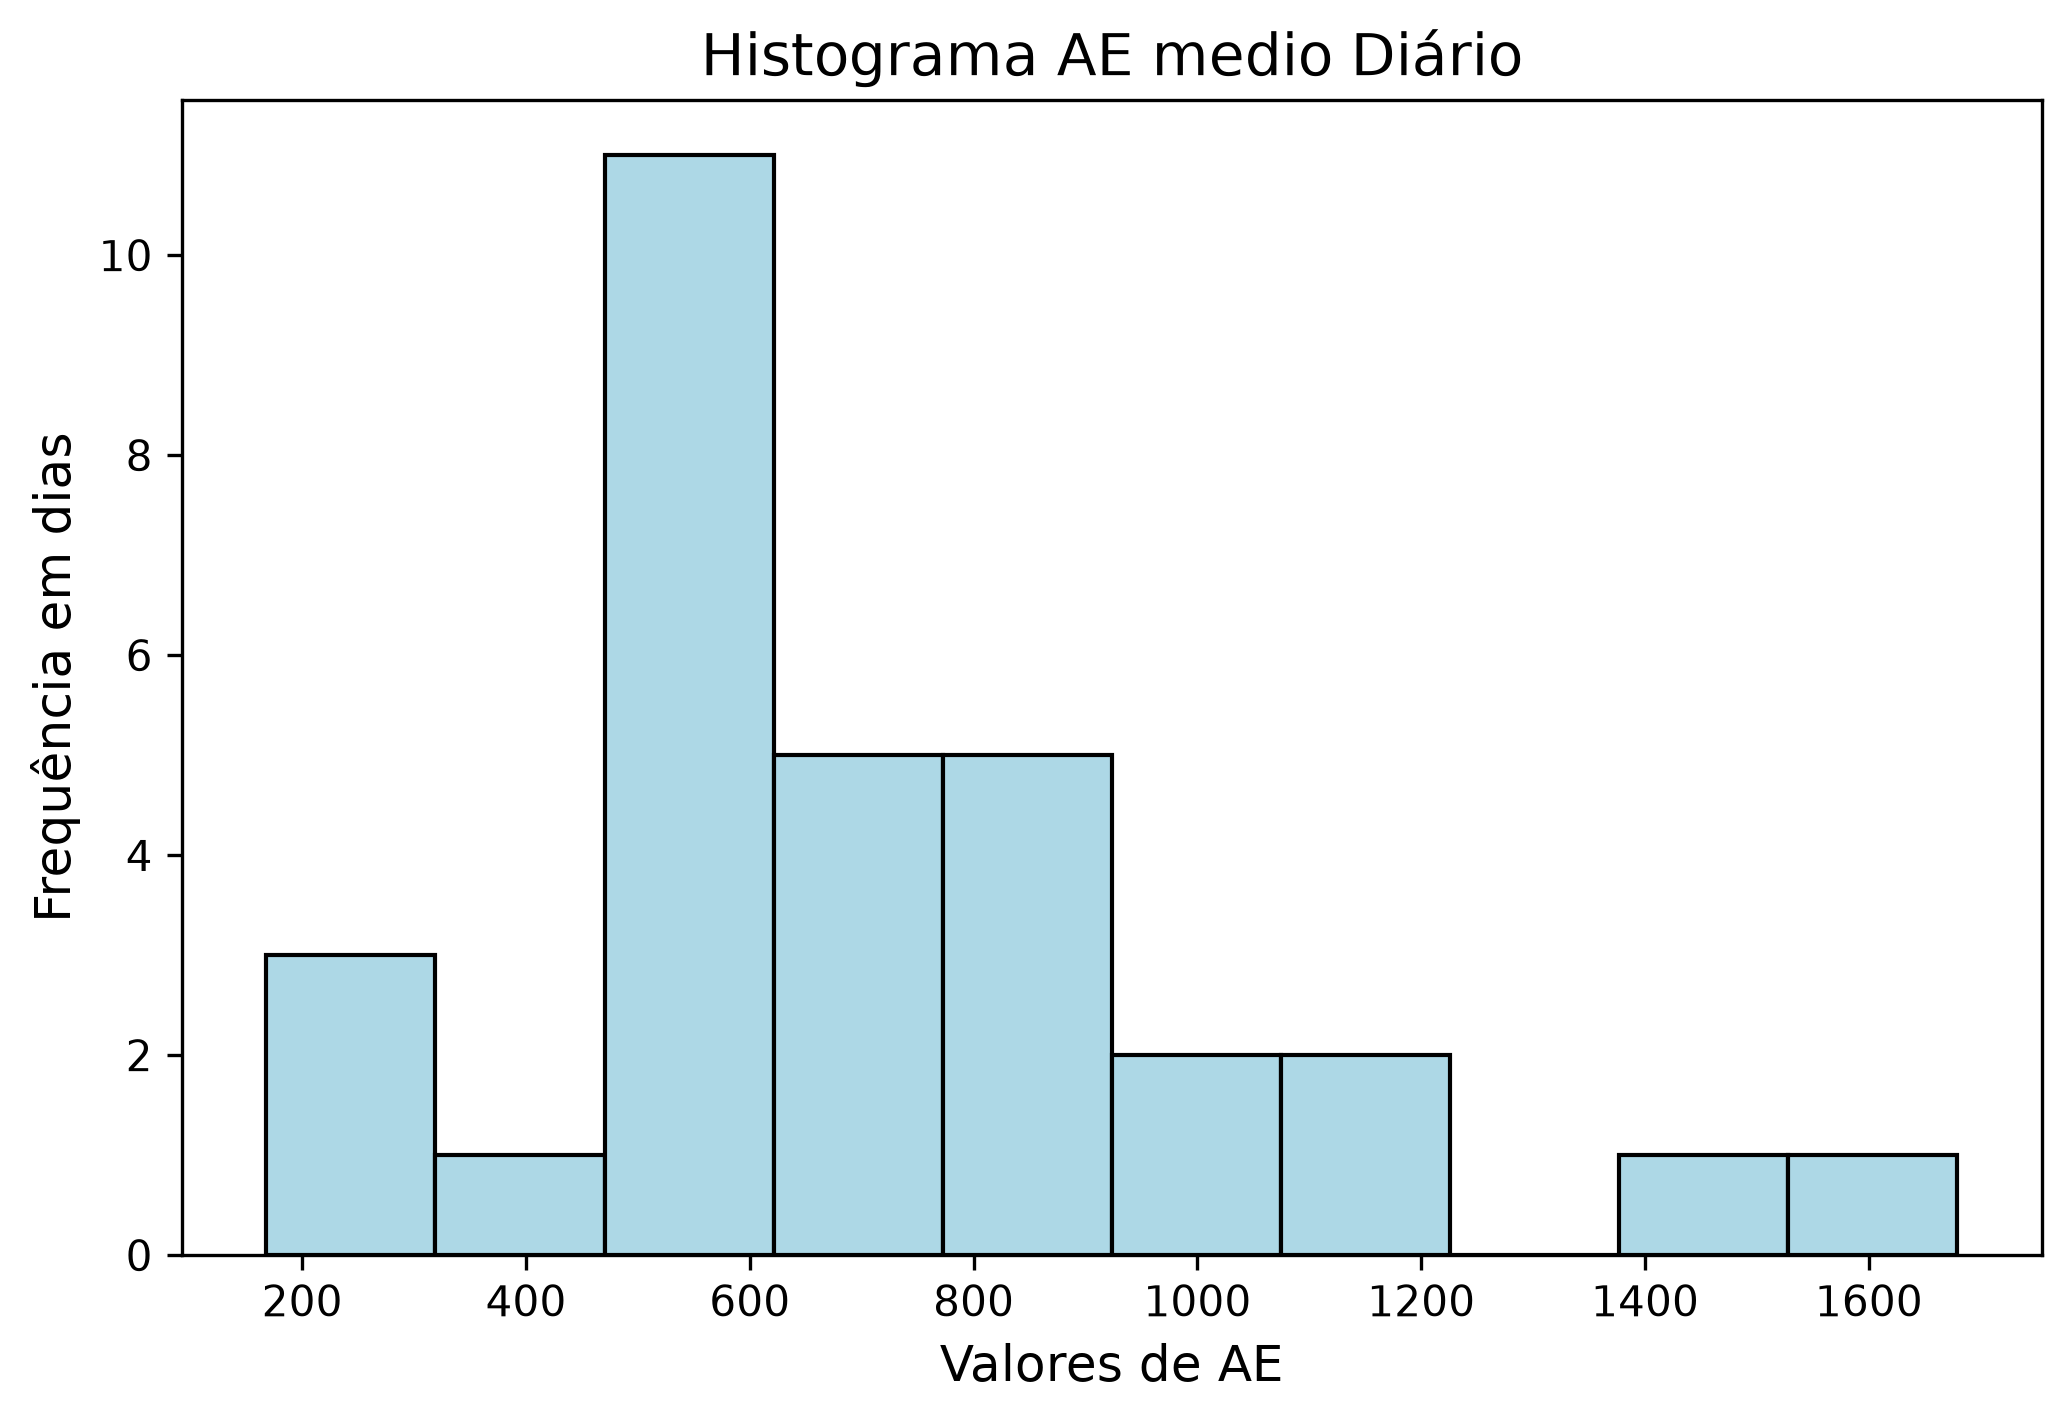
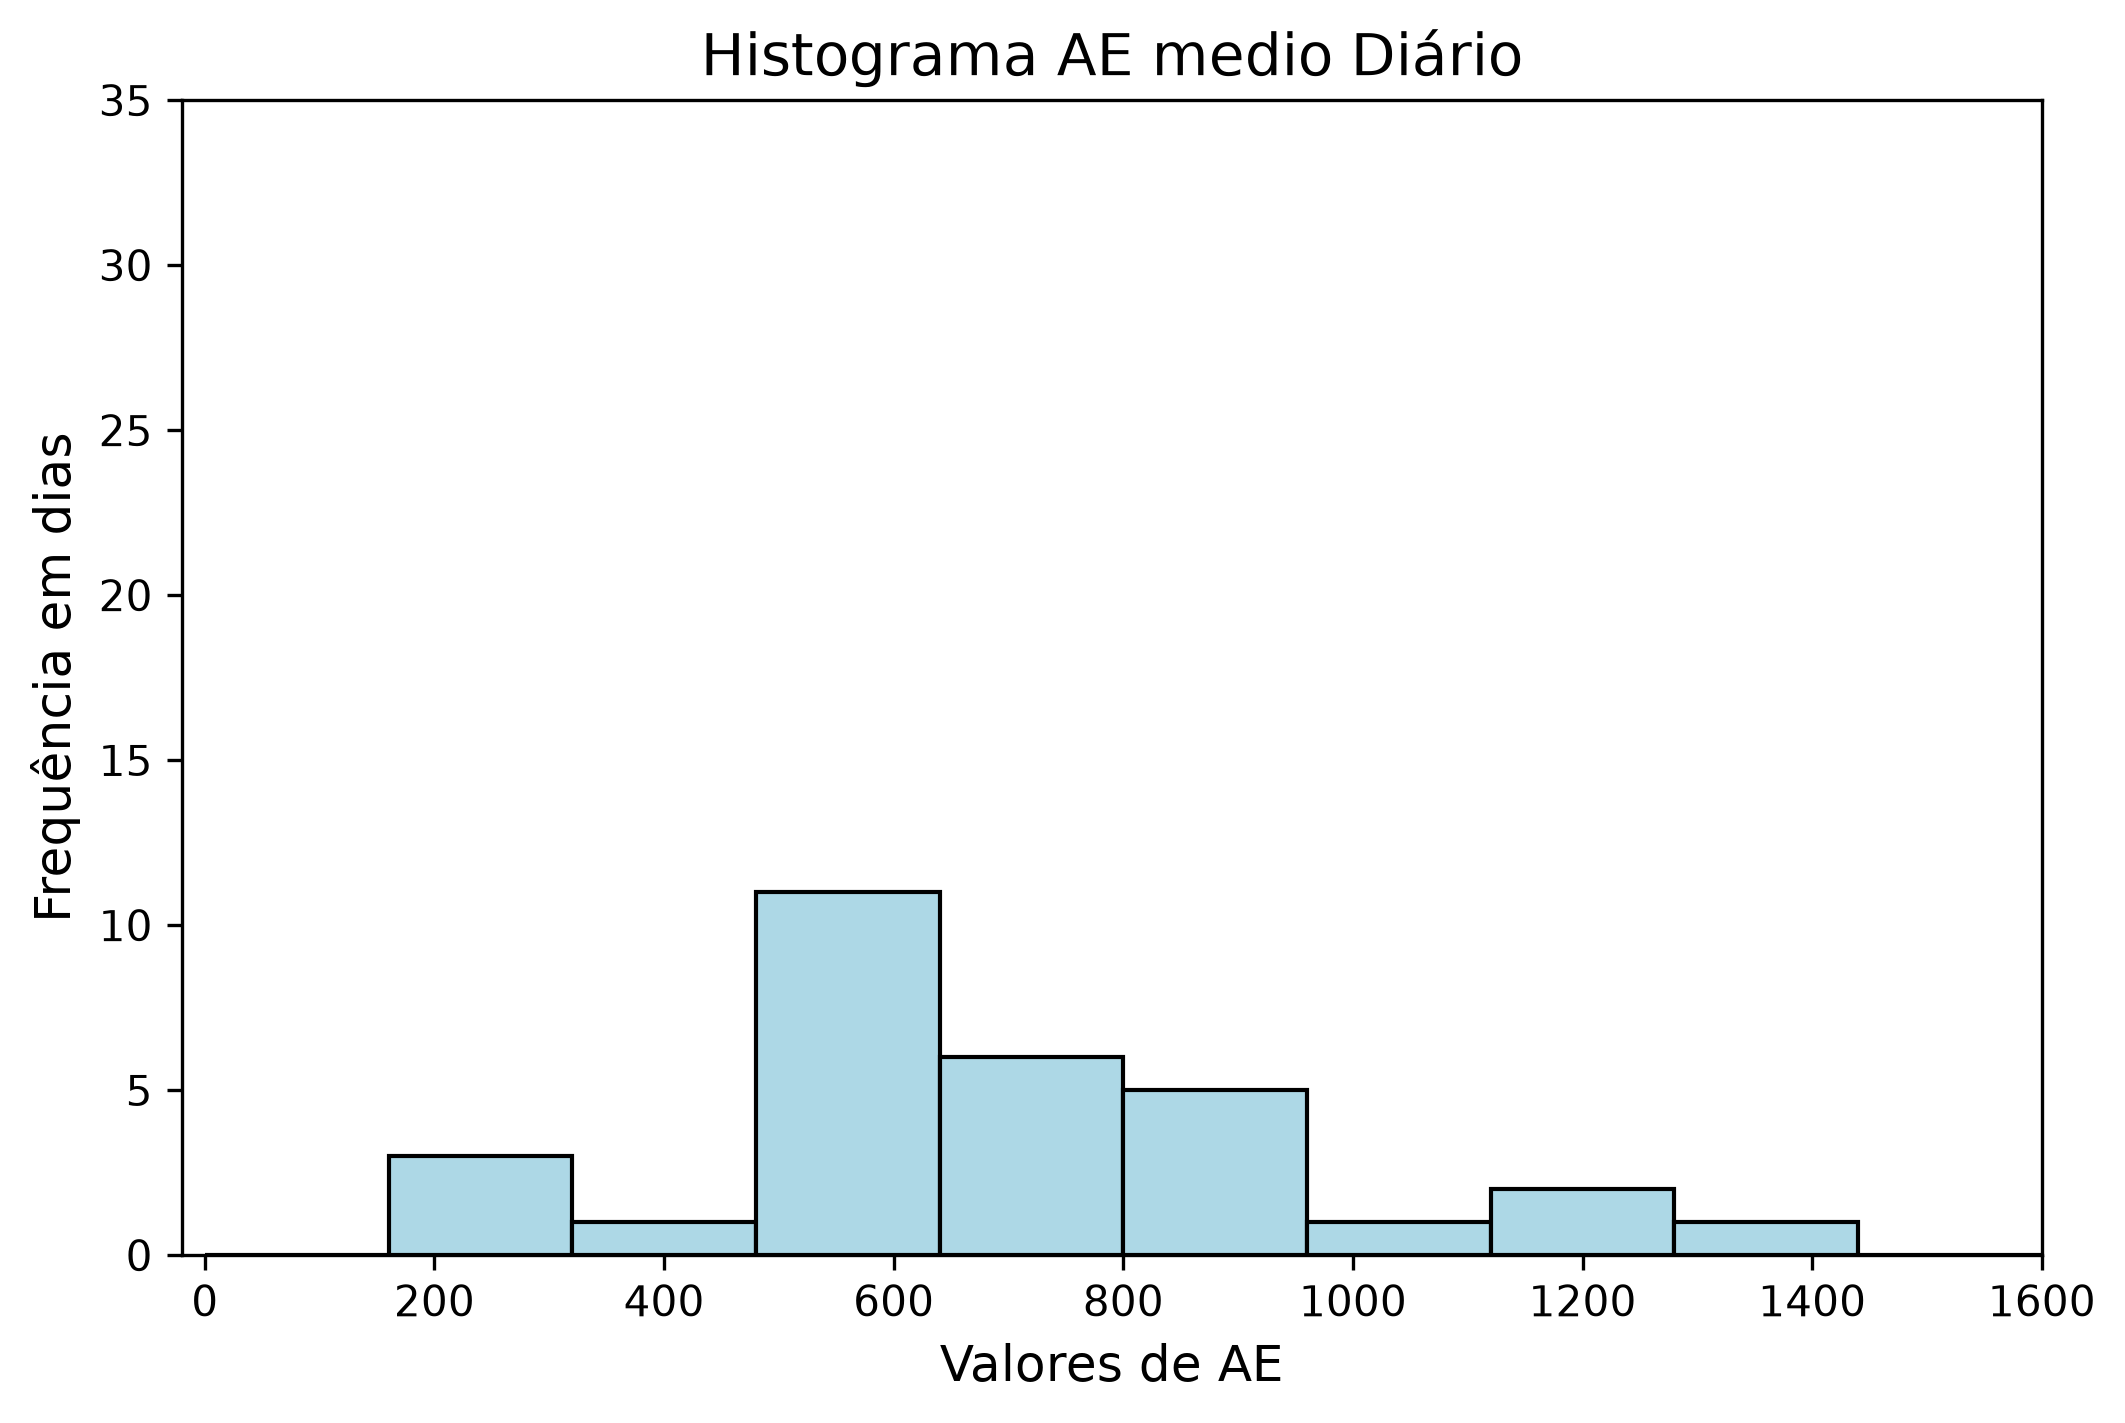
graficos alinhados

diff --git a/dados.py b/dados.py
@@ -123,7 +123,7 @@ plt.show()
 plt.figure(figsize=(8, 5))
 plt.hist(tabela_diaria['Media_Col5'], bins=10, range=(0, 1600), color='lightblue', edgecolor='black')
 plt.xlim(-20, 1600) 
-plt.ylim(0, 20)
+plt.ylim(0, 35)
 plt.title('Histograma AE medio Diário', fontsize=14)
 plt.xlabel('Valores de AE', fontsize=12)
 plt.ylabel('Frequência em dias', fontsize=12)
@@ -132,7 +132,9 @@ plt.show()
 
 #grafico AE maximo
 plt.figure(figsize=(8, 5))
-plt.hist(tabela_diaria['Max_Col5'], bins=10, color='lightblue', edgecolor='black')
+plt.hist(tabela_diaria['Max_Col5'], bins=10, range=(0, 1600), color='lightblue', edgecolor='black')
+plt.xlim(-20, 1600) 
+plt.ylim(0, 35)
 plt.title('Histograma AE medio Diário', fontsize=14)
 plt.xlabel('Valores de AE', fontsize=12)
 plt.ylabel('Frequência em dias', fontsize=12)
@@ -141,7 +143,9 @@ plt.show()
 
 #grafico AE minimo
 plt.figure(figsize=(8, 5))
-plt.hist(tabela_diaria['Min_Col5'], bins=10, color='lightblue', edgecolor='black')
+plt.hist(tabela_diaria['Min_Col5'], bins=10, range=(0, 1600), color='lightblue', edgecolor='black')
+plt.xlim(-20, 1600) 
+plt.ylim(0, 35)
 plt.title('Histograma AE minimo Diário', fontsize=14)
 plt.xlabel('Valores de AE', fontsize=12)
 plt.ylabel('Frequência em dias', fontsize=12)
